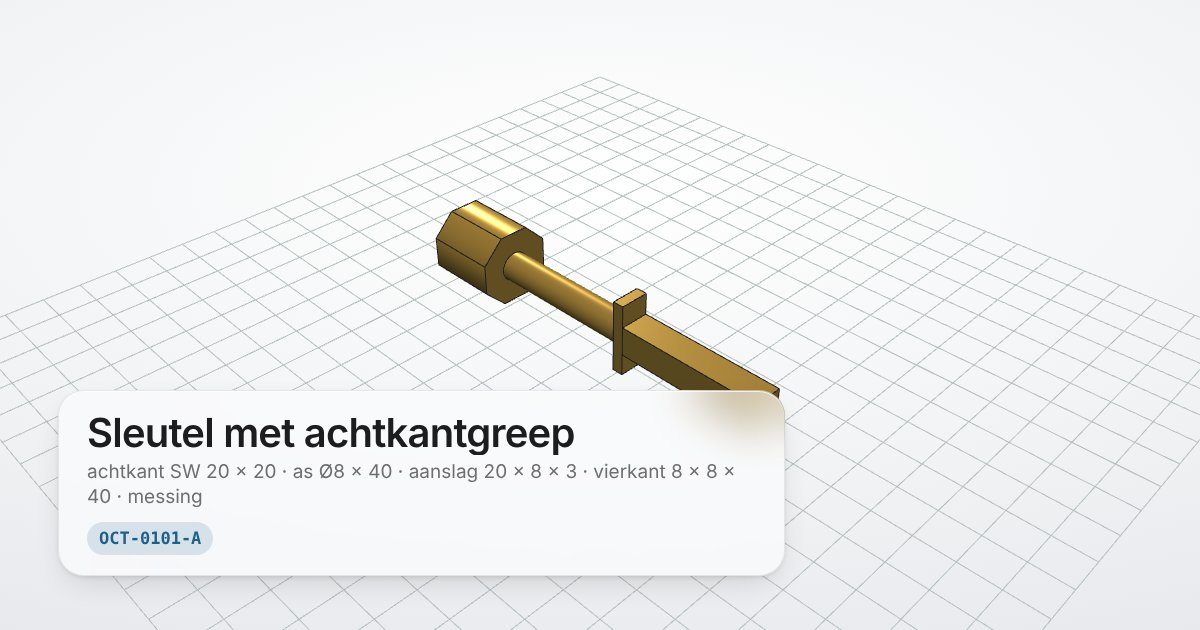
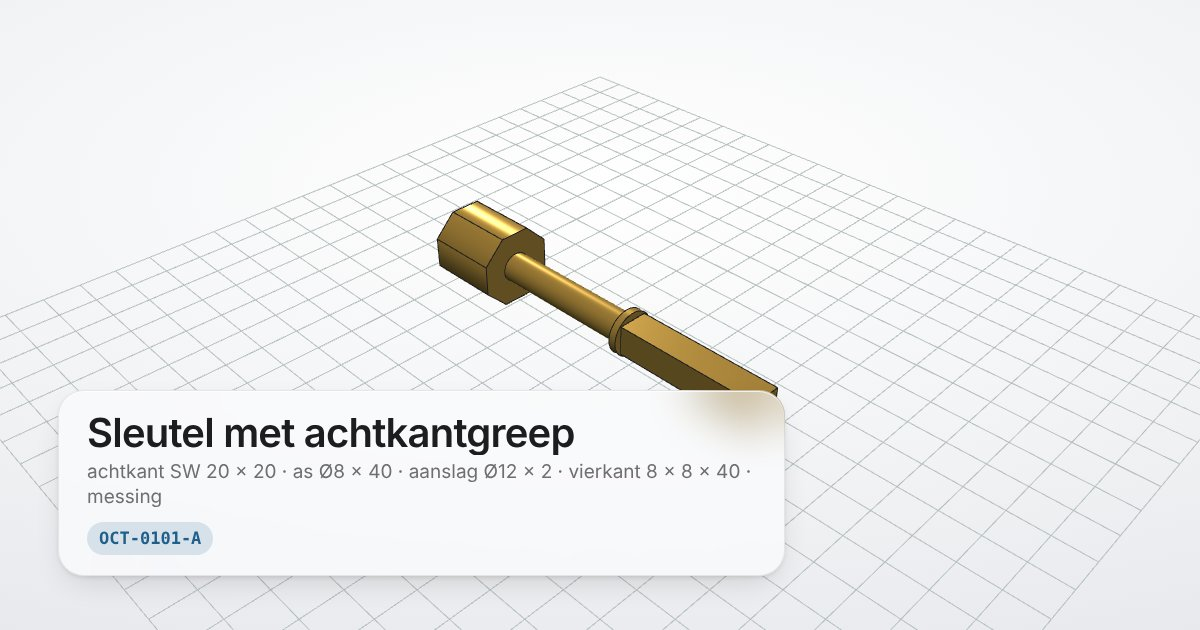
OCT-0101-A (concept): ronde aanslag Ø12 × 2
De aanslag tussen as en vierkant is een ronde schijf Ø12 × 2 (was een
plaatje 20 × 8 × 3); totale lengte 102.

Claude-Session: https://claude.ai/code/session_01XXJD1Cb5JRmrQvLX4eUmCv

diff --git a/drawings/OCT-0101/A.html b/drawings/OCT-0101/A.html
@@ -5,11 +5,11 @@
 <meta name="viewport" content="width=device-width,initial-scale=1,viewport-fit=cover">
 <title>Sleutel met achtkantgreep</title>
 <!-- link-preview -->
-<meta name="description" content="Messing sleutel: achtkantgreep SW 20 × 20, as Ø8 × 40, aanslag 20 × 8 × 3 en vierkant 8 × 8 × 40 op één lijn; totaal 103 mm. Revisie A van 2026-11-04.">
+<meta name="description" content="Messing sleutel: achtkantgreep SW 20 × 20, as Ø8 × 40, ronde aanslag Ø12 × 2 en vierkant 8 × 8 × 40 op één lijn; totaal 102 mm. Revisie A van 2026-11-04.">
 <meta property="og:type" content="website">
 <meta property="og:site_name" content="Tekeningenregister">
 <meta property="og:title" content="Sleutel met achtkantgreep · OCT-0101-A">
-<meta property="og:description" content="Messing sleutel: achtkantgreep SW 20 × 20, as Ø8 × 40, aanslag 20 × 8 × 3 en vierkant 8 × 8 × 40 op één lijn; totaal 103 mm. Revisie A van 2026-11-04.">
+<meta property="og:description" content="Messing sleutel: achtkantgreep SW 20 × 20, as Ø8 × 40, ronde aanslag Ø12 × 2 en vierkant 8 × 8 × 40 op één lijn; totaal 102 mm. Revisie A van 2026-11-04.">
 <meta property="og:url" content="https://africabambaata.github.io/prototypes/drawings/OCT-0101/A.html">
 <meta property="og:image" content="https://africabambaata.github.io/prototypes/previews/OCT-0101-A.jpg">
 <meta property="og:image:type" content="image/jpeg">
@@ -25,19 +25,19 @@
 <script src="../../viewer/1/viewer.js"></script>
 <script>
 // Sleutel met achtkantgreep OCT-0101-A (mm). Eén lijn langs X: achtkant (x 0–20), as Ø8 (x 20–60),
-// aanslag 20 × 8 × 3 (x 60–63), vierkant 8 × 8 (x 63–103). Platte vlakken van de achtkant boven, onder en opzij.
+// aanslag Ø12 × 2 (x 60–62), vierkant 8 × 8 (x 62–102). Platte vlakken van de achtkant boven, onder en opzij.
 const OCT = { af: 20, len: 20 };          // sleutelwijdte (tussen evenwijdige vlakken) en diepte
 const SHAFT = { d: 8, len: 40 };          // ronde as
 const BAR = { w: 8, len: 40 };            // vierkante staaf
-const PLATE = { w: 20, h: 8, t: 3 };      // aanslag tussen as en vierkant: 20 hoog (Y), 8 breed (Z), 3 dik (X)
+const PLATE = { d: 12, t: 2 };            // aanslag tussen as en vierkant: ronde schijf Ø12, 2 dik
 const RC = OCT.af / 2 / Math.cos(Math.PI / 8);   // 10,82: straal over de hoeken
-const X1 = OCT.len, X2 = X1 + SHAFT.len, XP = X2 + PLATE.t, X3 = XP + BAR.len;   // 20, 60, 63, 103
+const X1 = OCT.len, X2 = X1 + SHAFT.len, XP = X2 + PLATE.t, X3 = XP + BAR.len;   // 20, 60, 62, 102
 const H = OCT.af / 2, rs = SHAFT.d / 2, hb = BAR.w / 2;
 
 DrawingViewer.create({
   lang: 'nl',
   title: 'Sleutel met achtkantgreep',
-  subtitle: 'achtkant SW 20 × 20 · as Ø8 × 40 · aanslag 20 × 8 × 3 · vierkant 8 × 8 × 40 · messing',
+  subtitle: 'achtkant SW 20 × 20 · as Ø8 × 40 · aanslag Ø12 × 2 · vierkant 8 × 8 × 40 · messing',
   number: 'OCT-0101-A',
   register: { url: '../../drawings.json', number: 'OCT-0101', rev: 'A' },
   // Messing, in dezelfde kleuren als de trapleuning (MHB-0200)
@@ -54,8 +54,8 @@ DrawingViewer.create({
     { k: 'Materiaal', v: 'Messing' },
     { k: 'Eenheden · Schaal', v: 'mm · 1:1', units: 'mm', scale: true },
     { k: 'Algemene toleranties', v: 'ISO 2768-mK' },
-    { k: 'Totale lengte', v: '103 (20 + 40 + 3 + 40)' },
-    { k: 'Aanslag', v: 'plaatje 20 × 8 × 3 tussen as en vierkant' },
+    { k: 'Totale lengte', v: '102 (20 + 40 + 2 + 40)' },
+    { k: 'Aanslag', v: 'ronde schijf Ø12 × 2 tussen as en vierkant' },
     { k: 'Projectie', v: 'Eerste hoek', projection: true },
     { k: 'Getekend · Blad', v: '2026-11-04 · 1/1' }
   ],
@@ -68,10 +68,8 @@ DrawingViewer.create({
     m.part(alongX(new THREE.CylinderGeometry(RC, RC, OCT.len, 8, 1, false, Math.PI / 8), 0, OCT.len), { edges: 25 });
     // Ronde as Ø8
     m.part(alongX(new THREE.CylinderGeometry(rs, rs, SHAFT.len, 48), X1, SHAFT.len), { edges: 25 });
-    // Aanslag: plat plaatje tussen as en vierkant, zodat de sleutel niet verder doorschuift
-    const plate = new THREE.BoxGeometry(PLATE.t, PLATE.w, PLATE.h);
-    plate.translate(X2 + PLATE.t / 2, 0, 0);
-    m.part(plate, { edges: 25 });
+    // Aanslag: ronde schijf tussen as en vierkant, zodat de sleutel niet verder doorschuift
+    m.part(alongX(new THREE.CylinderGeometry(PLATE.d / 2, PLATE.d / 2, PLATE.t, 64), X2, PLATE.t), { edges: 25 });
     // Vierkante staaf 8 × 8
     const bar = new THREE.BoxGeometry(BAR.len, BAR.w, BAR.w);
     bar.translate(XP + BAR.len / 2, 0, 0);
@@ -84,13 +82,13 @@ DrawingViewer.create({
 
     const d = m.dims({ arrow: 3 });
     const Y1 = -H - 8, Y2 = -H - 17;                 // maatlijnen onder het stuk
-    // Deellengtes 20 · 40 · 3 · 40 en totale lengte 103
+    // Deellengtes 20 · 40 · 2 · 40 en totale lengte 102
     d.linear({ a: V(0, Y1, 0), b: V(X1, Y1, 0), text: String(OCT.len),
       ext: [[V(X1, -H, 0), V(X1, Y1 - 2, 0)]] });
     d.linear({ a: V(X1, Y1, 0), b: V(X2, Y1, 0), text: String(SHAFT.len),
-      ext: [[V(X2, -PLATE.w / 2, 0), V(X2, Y1 - 2, 0)]] });
+      ext: [[V(X2, -PLATE.d / 2, 0), V(X2, Y1 - 2, 0)]] });
     d.linear({ a: V(X2, Y1, 0), b: V(XP, Y1, 0), text: String(PLATE.t),
-      ext: [[V(XP, -PLATE.w / 2, 0), V(XP, Y1 - 2, 0)]] });
+      ext: [[V(XP, -PLATE.d / 2, 0), V(XP, Y1 - 2, 0)]] });
     d.linear({ a: V(XP, Y1, 0), b: V(X3, Y1, 0), text: String(BAR.len),
       ext: [[V(X3, -hb, 0), V(X3, Y1 - 2, 0)]] });
     d.linear({ a: V(0, Y2, 0), b: V(X3, Y2, 0), text: String(X3),
@@ -102,7 +100,7 @@ DrawingViewer.create({
     const c45 = Math.SQRT1_2;
     d.leader({ p: V(X1 + 14, rs * c45, rs * c45), e: V(X1 + 6, H + 10, 12), text: 'Ø' + SHAFT.d });
     d.leader({ p: V(XP + 26, hb, hb), e: V(XP + 34, H + 10, 16), text: `□ ${BAR.w} × ${BAR.w}` });
-    d.leader({ p: V(X2 + PLATE.t / 2, PLATE.w / 2, PLATE.h / 2), e: V(X2 + 10, H + 18, 10), text: `aanslag ${PLATE.w} × ${PLATE.h} × ${PLATE.t}` });
+    d.leader({ p: V(X2 + PLATE.t / 2, PLATE.d / 2 * c45, PLATE.d / 2 * c45), e: V(X2 + 10, H + 18, 14), text: `aanslag Ø${PLATE.d} × ${PLATE.t}` });
   }
 });
 </script>
